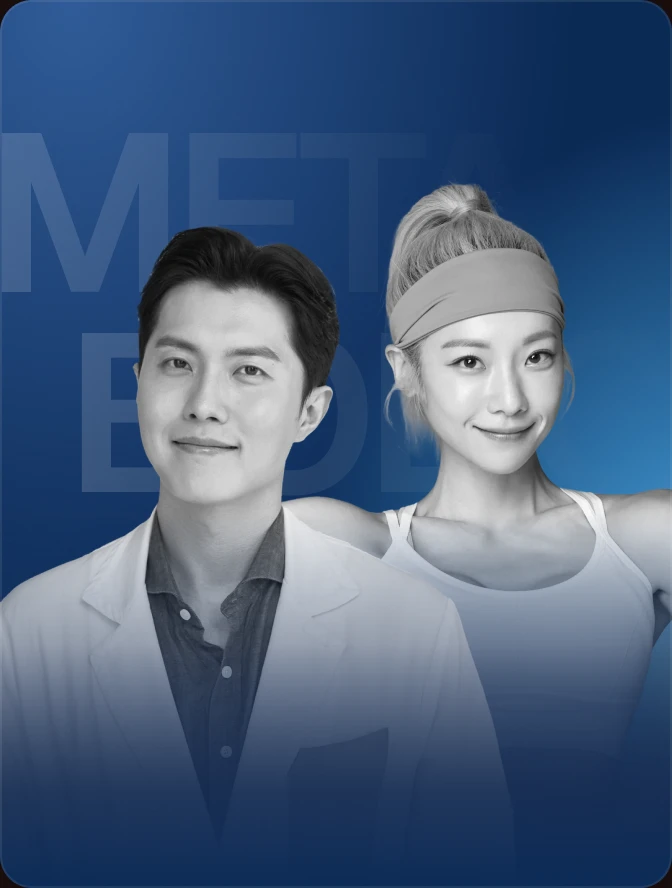
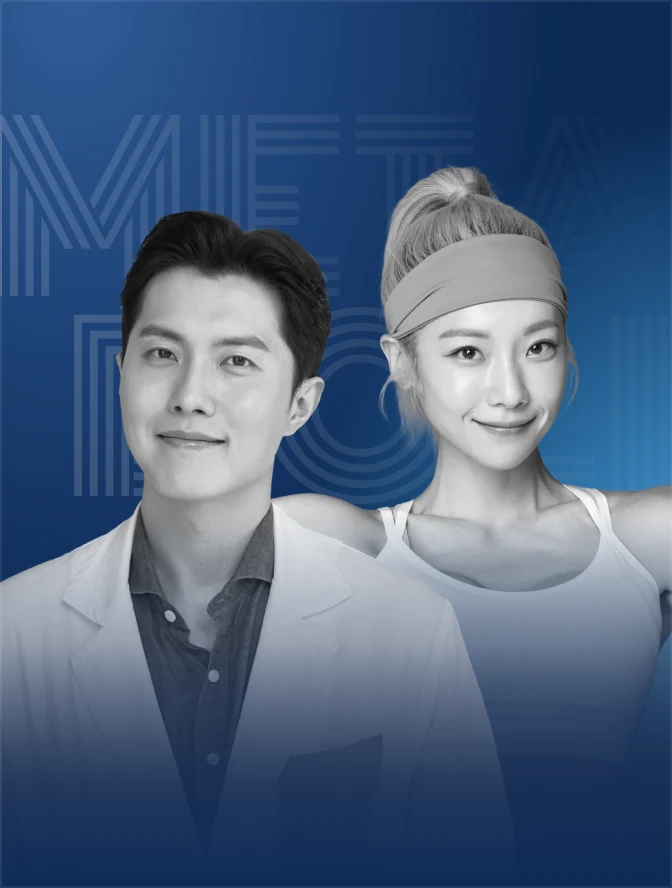
라인업 카드 배경 키워드 폰트를 Monoton으로 변경 (CSS + 합본 카드 6장 재출력)
Claude-Session: https://claude.ai/code/session_01R7psang7KMHjkciXLU3LV5

diff --git a/index.html b/index.html
@@ -28,7 +28,7 @@
 <meta name="claude:viewport-fit-sides" content="cover">
 <link rel="preconnect" href="https://fonts.googleapis.com">
 <link rel="preconnect" href="https://fonts.gstatic.com" crossorigin>
-<link rel="stylesheet" href="https://fonts.googleapis.com/css2?family=Asta+Sans:wght@400;500;600&family=Geist:wght@400;500;600&display=swap">
+<link rel="stylesheet" href="https://fonts.googleapis.com/css2?family=Asta+Sans:wght@400;500;600&family=Geist:wght@400;500;600&family=Monoton&display=swap">
 <style>
 /* Layout: 12-col editorial grid, 1104 content (88px gutters at 1280), sticky two-screen hero over a deep-red field */
 :root{
@@ -235,7 +235,7 @@ section.block{padding-block:120px}
 .l-card.W{background:radial-gradient(circle at 90% 79%,#D6999E 0%,#944052 16%,rgba(148,64,82,0) 34%),#3B0F1C}
 .l-card{container-type:inline-size}
 .l-type{position:absolute;inset:0;overflow:hidden;pointer-events:none}
-.l-type span{position:absolute;font-family:var(--font-en);font-weight:600;font-size:33.33cqw;line-height:1;letter-spacing:-.05em;white-space:nowrap;opacity:.16;background:linear-gradient(90deg,#fff,rgba(153,153,153,0));-webkit-background-clip:text;background-clip:text;color:transparent}
+.l-type span{position:absolute;font-family:"Monoton",var(--font-en);font-weight:400;font-size:33.33cqw;line-height:1;letter-spacing:0;white-space:nowrap;opacity:.16;background:linear-gradient(90deg,#fff,rgba(153,153,153,0));-webkit-background-clip:text;background-clip:text;color:transparent}
 .l-type span:first-child{left:-2.4%;top:12.6%}
 .l-type span:last-child{right:-2.4%;top:35.1%}
 .l-card img{position:absolute;height:auto;max-width:none;filter:grayscale(1) contrast(1.05);pointer-events:none}
@@ -976,7 +976,7 @@ try{ if('scrollRestoration' in history) history.scrollRestoration='manual'; }cat
   const cardHTML=(r,clone)=>{ const ti=clone?' tabindex="-1" aria-hidden="true"':'';
     if(r[0]==='soon') return `<a class="l-card soon" href="${BOOKL}" target="_blank" rel="noopener"${ti}><div class="l-top"><span>LINEUP</span><b>COMING SOON</b></div><div class="soon-mid"><svg viewBox="0 0 24 24" width="44" height="44" aria-hidden="true"><path d="M12 1.5C12.7 7.4 16.6 11.3 22.5 12C16.6 12.7 12.7 16.6 12 22.5C11.3 16.6 7.4 12.7 1.5 12C7.4 11.3 11.3 7.4 12 1.5Z" fill="#fff"/></svg><h3>더 많은 연사가<br>곧 공개됩니다</h3></div><div class="l-bottom"><span class="l-book">롱진콘 신청하기 ↗</span></div></a>`;
     const [f,n,d,c,dt,t,[x,y,w]]=r;
-    return `<a class="l-card ${t}${r[8]?' duo':''}${n.includes(' · ')?' multi':''}" href="${f.startsWith('smcc_')?'#program':BOOKL}"${f.startsWith('smcc_')?'':' target="_blank" rel="noopener"'}${ti}><div class="l-type" aria-hidden="true"><span>${WORD[f][0]}</span><span>${WORD[f][1]}</span></div>${r[8]?`<img src="img/${r[8][0]}.webp?v=3" alt="" loading="lazy" style="left:${r[8][1]}%;top:${r[8][2]}%;width:${r[8][3]}%;filter:none">`:''}<img src="img/${f}.webp${f==='ceo_lu'?'?v=6':f.startsWith('smcc_')?'?v=3':(f==='trio_lu')?'?v=3':(f==='lee_trio'||f==='khs_duo'||f==='noh_duo')?'?v=3':(f==='woo_duo')?'?v=1':''}" alt="${clone?'':n}" loading="lazy" style="left:${x}%;top:${y}%;width:${w}%${(f==='ceo_lu'||f==='trio_lu'||f==='woo_duo'||f==='lee_trio'||f==='khs_duo'||f==='noh_duo'||f.startsWith('smcc_'))?';filter:none':''}">${r[8]?'<div style="position:absolute;left:-5.95%;top:66.89%;width:108.33%;height:36.71%;background:linear-gradient(rgba(14,46,90,0),#0E2E5A);pointer-events:none"></div>':''}${(f==='ceo_lu'||f==='trio_lu'||f==='woo_duo'||f==='lee_trio'||f==='khs_duo'||f==='noh_duo'||f.startsWith('smcc_'))?'':'<div class="scrim"></div>'}<div class="l-top"><span>${c}</span><b>${dt}</b></div><div class="l-bottom"><h3>${n}</h3><p>${d}</p><span class="l-book">${f.startsWith('smcc_')?'SMCC 별도 모집':'예매하기 ↗'}</span></div></a>`; };
+    return `<a class="l-card ${t}${r[8]?' duo':''}${n.includes(' · ')?' multi':''}" href="${f.startsWith('smcc_')?'#program':BOOKL}"${f.startsWith('smcc_')?'':' target="_blank" rel="noopener"'}${ti}><div class="l-type" aria-hidden="true"><span>${WORD[f][0]}</span><span>${WORD[f][1]}</span></div>${r[8]?`<img src="img/${r[8][0]}.webp?v=3" alt="" loading="lazy" style="left:${r[8][1]}%;top:${r[8][2]}%;width:${r[8][3]}%;filter:none">`:''}<img src="img/${f}.webp${f==='ceo_lu'?'?v=7':f.startsWith('smcc_')?'?v=3':(f==='trio_lu')?'?v=7':(f==='lee_trio'||f==='khs_duo'||f==='noh_duo')?'?v=7':(f==='woo_duo')?'?v=7':''}" alt="${clone?'':n}" loading="lazy" style="left:${x}%;top:${y}%;width:${w}%${(f==='ceo_lu'||f==='trio_lu'||f==='woo_duo'||f==='lee_trio'||f==='khs_duo'||f==='noh_duo'||f.startsWith('smcc_'))?';filter:none':''}">${r[8]?'<div style="position:absolute;left:-5.95%;top:66.89%;width:108.33%;height:36.71%;background:linear-gradient(rgba(14,46,90,0),#0E2E5A);pointer-events:none"></div>':''}${(f==='ceo_lu'||f==='trio_lu'||f==='woo_duo'||f==='lee_trio'||f==='khs_duo'||f==='noh_duo'||f.startsWith('smcc_'))?'':'<div class="scrim"></div>'}<div class="l-top"><span>${c}</span><b>${dt}</b></div><div class="l-bottom"><h3>${n}</h3><p>${d}</p><span class="l-book">${f.startsWith('smcc_')?'SMCC 별도 모집':'예매하기 ↗'}</span></div></a>`; };
   // 무한 루프: 같은 카드 세트를 앞·뒤로 한 벌씩 더 붙이고, 가운데 세트를 벗어나면 같은 위치의 가운데 카드로 몰래 점프
   rail.innerHTML=LV.map(c=>cardHTML(c,1)).join('')+LV.map(c=>cardHTML(c,0)).join('')+LV.map(c=>cardHTML(c,1)).join('');
   const cards=()=>rail.querySelectorAll('.l-card');
